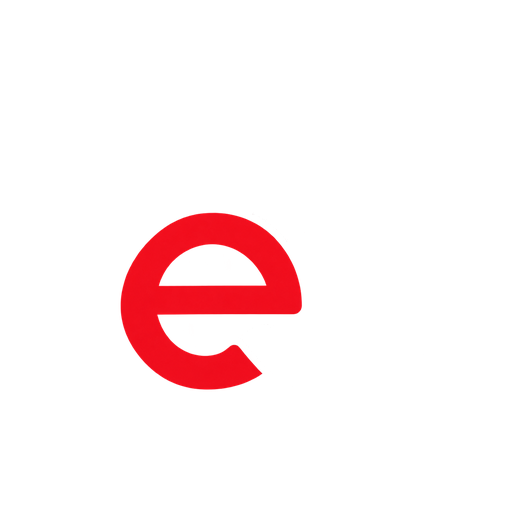
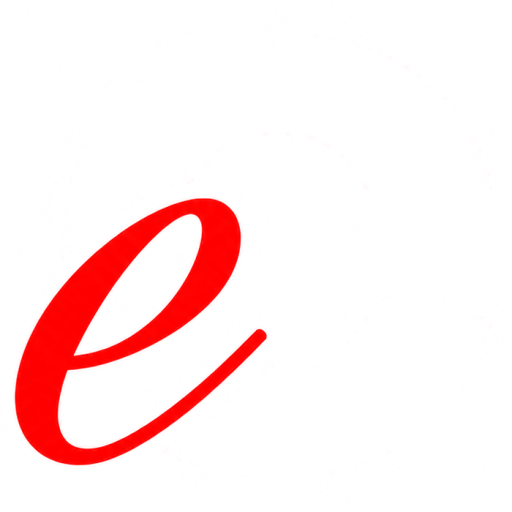
Add files via upload

Changed region(s): [[0.0312, 0.375, 0.5938, 0.9062]]

diff --git a/custom_components/ecalendar/frontend/ecalendar-panel.js b/custom_components/ecalendar/frontend/ecalendar-panel.js
@@ -1,4 +1,4 @@
-/* e-Calendar panel 0.9.4. No external dependencies or cloud requests. */
+/* e-Calendar panel 0.9.6. No external dependencies or cloud requests. */
 class ECalendarPanel extends HTMLElement {
   set hass(value) { this._hass = value; if (this.isConnected) this.start(); }
   connectedCallback() { this.start(); }
@@ -39,8 +39,8 @@ class ECalendarPanel extends HTMLElement {
       .month-toolbar{display:flex;align-items:center;justify-content:space-between;gap:12px;flex-wrap:wrap;margin-bottom:18px}.month-toolbar h2{margin:0;text-transform:capitalize}.month-scroll{overflow-x:auto}.month-grid{display:grid;grid-template-columns:repeat(7,minmax(0,1fr));min-width:560px;border-top:1px solid var(--divider-color,#ddd);border-left:1px solid var(--divider-color,#ddd)}
       .month-head{text-align:center;font-size:12px;font-weight:bold;padding:10px 4px;border-right:1px solid var(--divider-color,#ddd);border-bottom:1px solid var(--divider-color,#ddd)}.month-week{grid-column:1 / -1;display:grid;grid-template-columns:repeat(7,minmax(0,1fr));min-height:100px}.month-cell{cursor:pointer;min-height:0;min-width:0;padding:5px;border-right:1px solid var(--divider-color,#ddd);border-bottom:1px solid var(--divider-color,#ddd)}.month-cell.outside{background:var(--secondary-background-color,#eee)}.month-day{background:transparent;color:inherit;padding:4px 8px;font-size:14px;display:block;margin-bottom:5px}.month-cell.outside .month-day{color:var(--secondary-text-color,#888)}.month-day.today{background:var(--primary-color,#1463ba);color:white;border-radius:50%}.month-event{z-index:1;align-self:start;display:block;width:100%;text-align:left;padding:5px 6px;margin:4px 0;font-size:12px;line-height:1.35;overflow-wrap:anywhere}.month-detail{padding:12px;margin-top:12px;border:1px solid var(--divider-color,#ddd);border-radius:8px;line-height:1.5;white-space:pre-line}
       dialog{background:var(--card-background-color,white);color:inherit;border:1px solid var(--divider-color,#ddd);border-radius:16px;padding:24px;width:min(680px,calc(100vw - 24px));max-height:calc(100dvh - 40px);overflow:auto;box-shadow:0 12px 48px #0006}dialog::backdrop{background:#0008}dialog h2{margin:0}.dialog-heading{display:flex;align-items:center;justify-content:space-between;gap:12px;margin-bottom:20px}.dialog-heading button{background:transparent;color:inherit;font-size:24px;padding:4px 10px}.dialog-actions{display:flex;justify-content:flex-end;gap:12px;margin-top:20px}#dialog-feedback:empty{display:none}#dialog-feedback{line-height:1.5;margin-top:15px}#dialog-feedback.error{color:#c31635}.event-actions{display:flex;justify-content:flex-end;margin:16px 0 20px}.time-fields{margin:18px 0}.time-fields input[type=time]{max-width:180px}#dialog-target{margin:0 0 18px}
-    header img{flex-shrink:0;object-fit:contain}header .ec-logo-dark{display:none}:host([ec-dark]) header .ec-logo-light{display:none}:host([ec-dark]) header .ec-logo-dark{display:block}
-    </style><header><img class="ec-logo-light" src="/ecalendar_static/ecalendar-logo-light.png?v=0.9.4" alt="" width="40" height="40"><img class="ec-logo-dark" src="/ecalendar_static/ecalendar-logo-dark.png?v=0.9.4" alt="" width="40" height="40"><strong><em>e</em>-Calendar</strong></header>
+    header img{display:block;flex-shrink:0;width:220px;max-width:100%;height:auto;object-fit:contain}header .ec-logo-dark{display:none}:host([ec-dark]) header .ec-logo-light{display:none}:host([ec-dark]) header .ec-logo-dark{display:block}
+    </style><header><img class="ec-logo-light" src="/ecalendar_static/ecalendar-logo-light.png?v=0.9.6" alt="eCalendar" width="220" height="34"><img class="ec-logo-dark" src="/ecalendar_static/ecalendar-logo-dark.png?v=0.9.6" alt="eCalendar" width="220" height="34"></header>
     <main><nav class="tabs" role="tablist" aria-label="Panel kalendarza"><button id="tab-start" role="tab" aria-selected="true" aria-controls="view-start" tabindex="0">Start</button><button id="tab-events" role="tab" aria-selected="false" aria-controls="view-events" tabindex="-1">Wydarzenia</button><button id="tab-device" role="tab" aria-selected="false" aria-controls="view-device" tabindex="-1">Urządzenie</button></nav>
     <div id="feedback" role="status" aria-live="polite"></div>
     <div class="bar"><select id="devices" aria-label="Kalendarz"></select><span id="simple-status" role="status"></span><button id="refresh-home">Odśwież</button></div><div id="view-start" role="tabpanel" aria-labelledby="tab-start">
@@ -59,9 +59,9 @@ class ECalendarPanel extends HTMLElement {
     <dialog id="add-dialog" aria-labelledby="add-title"><div class="dialog-heading"><h2 id="add-title">Dodaj wydarzenie</h2><button type="button" id="close-add" aria-label="Zamknij">×</button></div><p class="note" id="dialog-target"></p><form id="form"><div class="fields">
     <div><label for="name">Nazwa wydarzenia</label><input id="name" required maxlength="160" placeholder="np. Wizyta u weterynarza"></div>
     <div id="event-date-field"><label id="event-date-label" for="date">Początek — data</label><input id="date" type="date" min="2000-01-01" max="2099-12-31" required></div>
-    <div><label for="end-date">Koniec — data</label><input id="end-date" type="date" min="2000-01-01" max="2099-12-31"><p class="note">Puste pole: ten sam dzień. Dla całego dnia wybierz ostatni dzień włącznie.</p></div>
+    <div><label for="end-date">Koniec — data</label><input id="end-date" type="date" min="2000-01-01" max="2099-12-31"><p class="note">Pozostaw puste, jeśli wydarzenie kończy się tego samego dnia.</p></div>
     <div><label for="advance">Wyświetlaj wcześniej</label><select id="advance"></select></div></div>
-    <div class="time-fields"><label class="check" for="all-day"><input id="all-day" type="checkbox" checked> Cały dzień</label><div id="time-wrapper" hidden><label for="event-time">Początek — godzina</label><input id="event-time" type="time" step="60" disabled><label for="end-time">Koniec — godzina</label><input id="end-time" type="time" step="60" disabled><p class="note">Godziny mogą uruchamiać automatyzacje HA. Ekran e-paper pokazuje wydarzenie według dat i nie odświeża się o każdej podanej godzinie.</p></div></div>
+    <div class="time-fields"><label class="check" for="all-day"><input id="all-day" type="checkbox" checked> Wydarzenie całodniowe</label><div id="time-wrapper" hidden><label for="event-time">Początek — godzina</label><input id="event-time" type="time" step="60" disabled><label for="end-time">Koniec — godzina</label><input id="end-time" type="time" step="60" disabled><p class="note">Godziny mogą uruchamiać automatyzacje HA. Ekran e-paper pokazuje wydarzenie według dat i nie odświeża się o każdej podanej godzinie.</p></div></div>
     <div class="options"><label for="repeat">Powtarzanie</label><select id="repeat">
     <option value="0">Brak — jednorazowo</option><option value="1">Co tydzień</option><option value="2">Co miesiąc</option><option value="3">Co rok</option><option value="4">Wybrany dzień tygodnia w miesiącu</option></select></div>
     <div id="monthly" class="options fields" hidden><div><label for="occurrence">Który w miesiącu</label><select id="occurrence">
@@ -70,6 +70,7 @@ class ECalendarPanel extends HTMLElement {
     <div id="annual" class="options" hidden><label class="check" for="anniversary"><input id="anniversary" type="checkbox"> Urodziny / rocznica — zwiększaj liczbę o 1 co rok</label>
     <div id="anniversary-value" hidden><label for="anniversary-base">Wiek / numer rocznicy w roku początkowym</label><input id="anniversary-base" type="number" min="0" max="250" step="1" value="0">
     <p class="note">Np. data 07.10.2026 i wartość 40 oznacza 40 w 2026 roku oraz 41 w 2027 roku. Możesz też podać datę urodzenia lub ślubu i wartość 0, jeśli data mieści się w latach 2000–2099.</p></div></div>
+    <div id="short-month-option" class="options" hidden><label class="check"><input id="short-month" type="checkbox"> W krótszych miesiącach przypominaj w ostatnim dniu miesiąca</label></div>
     <p class="note" id="repeat-help"></p>
     <div id="dialog-feedback" role="status" aria-live="polite"></div><div class="dialog-actions"><button id="cancel-add" type="button">Anuluj</button><button id="add" type="submit">Dodaj do kalendarza</button></div></form></dialog>
     <section id="list-view"><h2>Twoje wydarzenia <span id="count"></span></h2><div class="bar"><input id="search" type="search" placeholder="Szukaj wydarzenia…" aria-label="Szukaj wydarzenia"></div><div id="events"></div></section>
@@ -89,7 +90,7 @@ class ECalendarPanel extends HTMLElement {
     const today=this.today();this.el('date').value=`${today.year}-${String(today.month).padStart(2,'0')}-${String(today.day).padStart(2,'0')}`;
     this.el('devices').onchange=()=>this.render();this.el('search').oninput=()=>this.renderEvents();
     this.el('refresh').onclick=()=>this.act('refresh',{});this.el('refresh-home').onclick=()=>this.act('refresh',{});this.el('refresh-data').onclick=()=>this.poll();
-    this.el('repeat').onchange=()=>this.updateOptions();this.el('anniversary').onchange=()=>this.updateOptions();this.updateOptions();
+    this.el('repeat').onchange=()=>this.updateOptions();this.el('short-month').onchange=()=>this.updateOptions();this.el('anniversary').onchange=()=>this.updateOptions();this.updateOptions();
     this.el('open-add').onclick=()=>this.openAdd();
     this.el('close-add').onclick=()=>this.closeAdd();this.el('cancel-add').onclick=()=>this.closeAdd();
     this.el('add-dialog').addEventListener('cancel',event=>{if(this.busy)event.preventDefault();});
@@ -123,7 +124,7 @@ class ECalendarPanel extends HTMLElement {
     this._ecalendarEventEdit={index:event.index,revision:d.state.revision};
     this.el('add-title').textContent='Edytuj wydarzenie';this.el('add').textContent='Zapisz zmiany';
     const iso=x=>`${x.year}-${String(x.month).padStart(2,'0')}-${String(x.day).padStart(2,'0')}`;
-    this.el('name').value=event.name;this.el('date').value=iso(event);this.el('advance').value=String(event.advance_days);this.el('repeat').value=String(event.repeat||0);this.el('occurrence').value=String(event.monthly_occurrence||1);this.el('weekday').value=String(event.monthly_weekday??1);this.el('anniversary').checked=!!event.anniversary;this.el('anniversary-base').value=event.anniversary_base||0;
+    this.el('name').value=event.name;this.el('date').value=iso(event);this.el('advance').value=String(event.advance_days);this.el('repeat').value=String(event.repeat||0);this.el('occurrence').value=String(event.monthly_occurrence||1);this.el('weekday').value=String(event.monthly_weekday??1);this.el('anniversary').checked=!!event.anniversary;this.el('short-month').checked=event.short_month_last_day===true;this.el('anniversary-base').value=event.anniversary_base||0;
     this.el('all-day').checked=!(event.time_minutes>=0);this.el('event-time').value=this.timeLabel(event);
     let end=this.shiftDate(event,event.end_days||0),minutes=event.end_time_minutes??-1;
     if(event.time_minutes>=0&&minutes<0){minutes=(event.time_minutes+1)%1440;if(minutes===0)end=this.shiftDate(end,1);}
@@ -275,11 +276,12 @@ class ECalendarPanel extends HTMLElement {
     if(dateField)dateField.hidden=repeat===4;
     this.el('date').required=repeat!==4;
     if(repeat===4&&!this._ecalendarEventEdit){const today=this.today();this.el('date').value=`${today.year}-${String(today.month).padStart(2,'0')}-${String(today.day).padStart(2,'0')}`;}
+    this.el('short-month-option').hidden=![2,3].includes(repeat);this.el('short-month').disabled=![2,3].includes(repeat);if(![2,3].includes(repeat))this.el('short-month').checked=false;
     this.el('monthly').hidden=repeat!==4;this.el('annual').hidden=!annual;
     this.el('anniversary-value').hidden=!annual||!this.el('anniversary').checked;
     this.el('anniversary-base').required=annual&&this.el('anniversary').checked;
     this.el('anniversary-base').disabled=!annual||!this.el('anniversary').checked;
-    this.el('repeat-help').textContent=repeat===4?'Wybierz wystąpienie i dzień tygodnia. Kalendarz sam wyznaczy terminy — nie musisz podawać daty.':repeat===2?'Powtarzanie w tym samym dniu miesiąca. Miesiące bez tego dnia są pomijane.':repeat===3?'Powtarzanie w tym samym dniu i miesiącu. 29 lutego występuje tylko w latach przestępnych.':repeat===1?'Powtarzanie co 7 dni od podanej daty.':'';
+    this.el('repeat-help').textContent=repeat===4?'Wybierz wystąpienie i dzień tygodnia. Kalendarz sam wyznaczy terminy — nie musisz podawać daty.':repeat===2?(this.el('short-month').checked?'W krótszym miesiącu użyj ostatniego dnia. Oryginalna data pozostaje bez zmian.':'Miesiące bez wybranego dnia są pomijane.'):repeat===3?(this.el('short-month').checked?'29 lutego będzie przypominany 28 lutego w roku nieprzestępnym.':'29 lutego występuje tylko w latach przestępnych.'):repeat===1?'Powtarzanie co 7 dni od podanej daty.':'';
   }
   formPayload(){
     const [year,month,day]=this.el('date').value.split('-').map(Number),repeat=Number(this.el('repeat').value);
@@ -288,6 +290,7 @@ class ECalendarPanel extends HTMLElement {
     const payload={name:this.el('name').value,year,month,day,advance_days:Number(this.el('advance').value),repeat,
       monthly_occurrence:repeat===4?Number(this.el('occurrence').value):1,
       monthly_weekday:repeat===4?Number(this.el('weekday').value):1,
+      short_month_last_day:[2,3].includes(repeat)&&this.el('short-month').checked,
       anniversary,anniversary_base:anniversary?Number(this.el('anniversary-base').value):0};
     if(timeMinutes!==-1)payload.time_minutes=timeMinutes;
     const endText=this.el('end-date')?.value||this.el('date').value;
@@ -388,7 +391,7 @@ class ECalendarPanel extends HTMLElement {
     const startDate=new Date(start),year=startDate.getUTCFullYear(),month=startDate.getUTCMonth()+1;
     if(event.repeat===3){
       for(let y=year;y<=year+8;y++){
-        const candidate=valid(y,event.month,event.day);
+        const candidate=valid(y,event.month,event.short_month_last_day?Math.min(event.day,new Date(Date.UTC(y,event.month,0)).getUTCDate()):event.day);
         if(candidate&&candidate.getTime()>=start)return tuple(candidate);
       }
     }
@@ -405,6 +408,7 @@ class ECalendarPanel extends HTMLElement {
             day=last.getUTCDate()-(last.getUTCDay()-weekday+7)%7;
           }else day=1+(weekday-first.getUTCDay()+7)%7+(occurrence-1)*7;
         }
+        if(event.repeat===2&&event.short_month_last_day)day=Math.min(day,new Date(Date.UTC(y,m,0)).getUTCDate());
         const candidate=valid(y,m,day);
         if(candidate&&candidate.getTime()>=start)return tuple(candidate);
       }
@@ -415,6 +419,7 @@ class ECalendarPanel extends HTMLElement {
     const repeat={0:'Brak',1:'Co tydzień',2:'Co miesiąc',3:'Co rok',4:'Wybrany dzień tygodnia w miesiącu'};
     let text=`Wyświetlaj: ${event.advance_days?`${event.advance_days} dni wcześniej`:'w dniu wydarzenia'} • Powtarzanie: ${repeat[event.repeat]??event.repeat}`;
     if(event.repeat===4){const days=['Niedziela','Poniedziałek','Wtorek','Środa','Czwartek','Piątek','Sobota'];text+=` (${event.monthly_occurrence===5?'ostatni':event.monthly_occurrence+'.'}: ${days[event.monthly_weekday]||event.monthly_weekday})`;}
+    if(event.short_month_last_day)text+=' • W krótszym miesiącu: ostatni dzień';
     if(event.anniversary)text+=` • Wartość początkowa: ${event.anniversary_base} w ${event.year} roku`;
     return text;
   }

diff --git a/custom_components/ecalendar/runtime.py b/custom_components/ecalendar/runtime.py
@@ -39,6 +39,9 @@ def validate_add(data):
         raise CalendarError("Nieprawidłowe opcje powtarzania lub wartość rocznicy (0–250).")
     if anniversary and repeat != 3:
         raise CalendarError("Obliczanie wieku lub rocznicy wymaga powtarzania co rok.")
+    short_month = data.get("short_month_last_day", False)
+    if type(short_month) is not bool or (short_month and repeat not in (2, 3)):
+        raise CalendarError("Opcja ostatniego dnia miesiąca wymaga powtarzania co miesiąc lub co rok.")
     time_minutes = data.get("time_minutes", -1)
     if type(time_minutes) is not int or not -1 <= time_minutes <= 1439:
         raise CalendarError("Nieprawidłowa godzina wydarzenia.")
@@ -46,6 +49,8 @@ def validate_add(data):
                 repeat=repeat, monthly_occurrence=occurrence if repeat == 4 else 1,
                 monthly_weekday=weekday if repeat == 4 else 1,
                 anniversary=anniversary, anniversary_base=anniversary_base if anniversary else 0)
+    if "short_month_last_day" in data:
+        result["short_month_last_day"] = short_month
     if time_minutes >= 0:
         result["time_minutes"] = time_minutes
     if "end_days" in data or "end_time_minutes" in data:
@@ -207,6 +212,8 @@ class CalendarRuntime:
             if any(not isinstance(event, dict) or type(event.get("index")) is not int or event["index"] != i for i, event in enumerate(events)):
                 return
             for event in events:
+                flag=event.get("short_month_last_day",False)
+                if type(flag) is not bool or (flag and event.get("repeat") not in (2,3)):return
                 days=event.get("end_days",0);minutes=event.get("end_time_minutes",-1)
                 if type(days) is not int or not 0<=days<=366 or type(minutes) is not int or not -1<=minutes<1440:return
             if isinstance(data.get("device"),dict):
@@ -292,6 +299,8 @@ class CalendarRuntime:
                 raise CalendarError("Zaktualizuj oprogramowanie kalendarza, aby zapisywać wydarzenia z godziną.")
             if action in ("add","update") and ("end_days" in payload or "end_time_minutes" in payload) and current.get("supports_duration") is not True:
                 raise CalendarError("Najpierw zaktualizuj oprogramowanie e-Calendar do wersji obsługującej początek i koniec wydarzeń.")
+            if action in ("add", "update") and payload.get("short_month_last_day") and current.get("supports_short_month") is not True:
+                raise CalendarError("Najpierw zaktualizuj firmware e-Calendar do wersji obsługującej krótsze miesiące.")
             if action=="update" and current.get("supports_update") is not True:
                 raise CalendarError("Zaktualizuj firmware e-Calendar, aby edytować wydarzenia.")
             if action in ("delete","update") and (current["revision"] != payload["revision"] or payload["index"] >= current["count"]):

diff --git a/custom_components/ecalendar/__init__.py b/custom_components/ecalendar/__init__.py
@@ -40,7 +40,7 @@ async def async_setup_entry(hass, entry):
         if not store["panel"]:
             await panel_custom.async_register_panel(
                 hass=hass, webcomponent_name="ecalendar-panel", frontend_url_path="ecalendar",
-                module_url="/ecalendar_static/ecalendar-panel.js?v=0.9.4",
+                module_url="/ecalendar_static/ecalendar-panel.js?v=0.9.6",
                 sidebar_title="e-Calendar", sidebar_icon="mdi:calendar",
                 embed_iframe=False, require_admin=True,
             )
@@ -122,7 +122,7 @@ async def ws_refresh(hass, connection, message):
                                 vol.Required("month"): int, vol.Required("day"): int,
                                 vol.Required("advance_days"): int,
                                 vol.Optional("repeat"): int, vol.Optional("monthly_occurrence"): int,
-                                vol.Optional("monthly_weekday"): int, vol.Optional("anniversary"): bool,
+                                vol.Optional("monthly_weekday"): int, vol.Optional("anniversary"): bool, vol.Optional("short_month_last_day"): bool,
                                 vol.Optional("anniversary_base"): int, vol.Optional("time_minutes"): int,
                                 vol.Optional("end_days"): int, vol.Optional("end_time_minutes"): int})
 @websocket_api.async_response
@@ -140,7 +140,7 @@ async def ws_delete(hass, connection, message):
                                 vol.Required("month"): int, vol.Required("day"): int,
                                 vol.Required("advance_days"): int,
                                 vol.Optional("repeat"): int, vol.Optional("monthly_occurrence"): int,
-                                vol.Optional("monthly_weekday"): int, vol.Optional("anniversary"): bool,
+                                vol.Optional("monthly_weekday"): int, vol.Optional("anniversary"): bool, vol.Optional("short_month_last_day"): bool,
                                 vol.Optional("anniversary_base"): int, vol.Optional("time_minutes"): int,
                                 vol.Optional("end_days"): int, vol.Optional("end_time_minutes"): int})
 @websocket_api.async_response

diff --git a/custom_components/ecalendar/services.py b/custom_components/ecalendar/services.py
@@ -48,6 +48,8 @@ def register_services(hass):
                              "anniversary":call.data.get("anniversary",False),
                              "anniversary_base":int(call.data.get("anniversary_base",0))}
                     value=call.data.get("time","")
+                    if "short_month_last_day" in call.data:
+                        payload["short_month_last_day"] = call.data["short_month_last_day"]
                     if value:
                         hour=time.fromisoformat(value)
                         if hour.second or hour.microsecond or hour.tzinfo:
@@ -78,5 +80,5 @@ def register_services(hass):
         vol.Required("name"):str,vol.Required("date"):str,
         vol.Optional("time"):str,vol.Optional("end_date"):str,vol.Optional("end_time"):str,vol.Optional("advance_days") :vol.Any(int,str),
         vol.Optional("repeat"):vol.Any(int,str),vol.Optional("monthly_occurrence"):vol.Any(int,str),
-        vol.Optional("monthly_weekday"):vol.Any(int,str),vol.Optional("anniversary"):bool,
+        vol.Optional("monthly_weekday"):vol.Any(int,str),vol.Optional("anniversary"):bool,vol.Optional("short_month_last_day"):bool,
         vol.Optional("anniversary_base"):vol.Any(int,float)}))

diff --git a/custom_components/ecalendar/events.py b/custom_components/ecalendar/events.py
@@ -24,7 +24,7 @@ def next_date(event, after):
             while y <= 2099:
                 last = calendar.monthrange(y, m)[1]
                 if repeat == 2:
-                    day = base.day
+                    day = min(base.day,last) if event.get("short_month_last_day",False) else base.day
                 else:
                     weekday = event.get("monthly_weekday", 1)
                     occurrence = event.get("monthly_occurrence", 1)
@@ -45,7 +45,7 @@ def next_date(event, after):
         if repeat == 3:
             for y in range(lower.year, 2100):
                 try:
-                    candidate = date(y,base.month,base.day)
+                    candidate = date(y,base.month,min(base.day,calendar.monthrange(y,base.month)[1]) if event.get("short_month_last_day",False) else base.day)
                 except ValueError:
                     continue
                 if candidate >= lower:

diff --git a/custom_components/ecalendar/const.py b/custom_components/ecalendar/const.py
@@ -2,5 +2,5 @@
 DOMAIN = "ecalendar"
 TIMEOUT = 50
 
-VERSION = "0.9.4"
+VERSION = "0.9.6"
 MEASUREMENT_TIMEOUT = 300  # five missed one-minute samples
